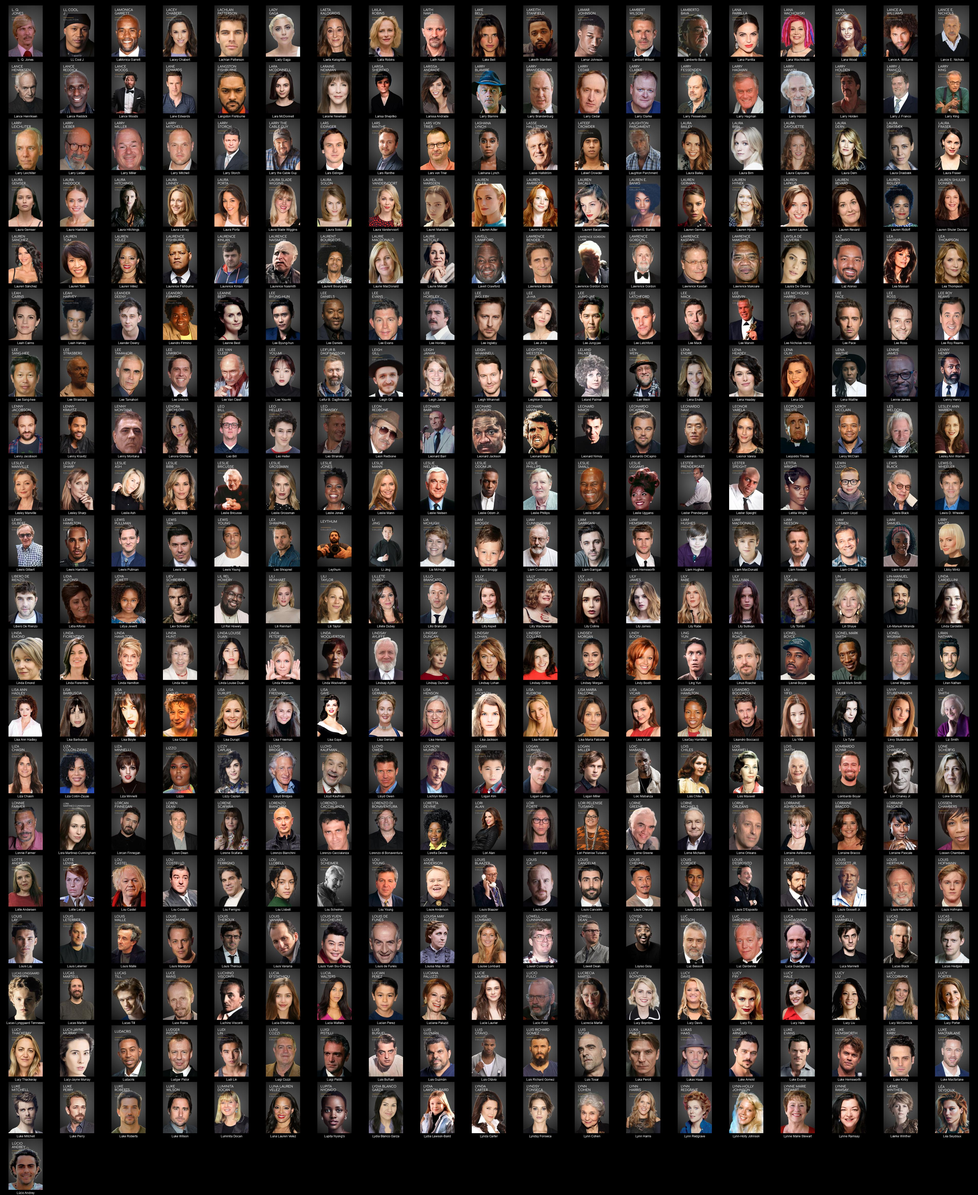
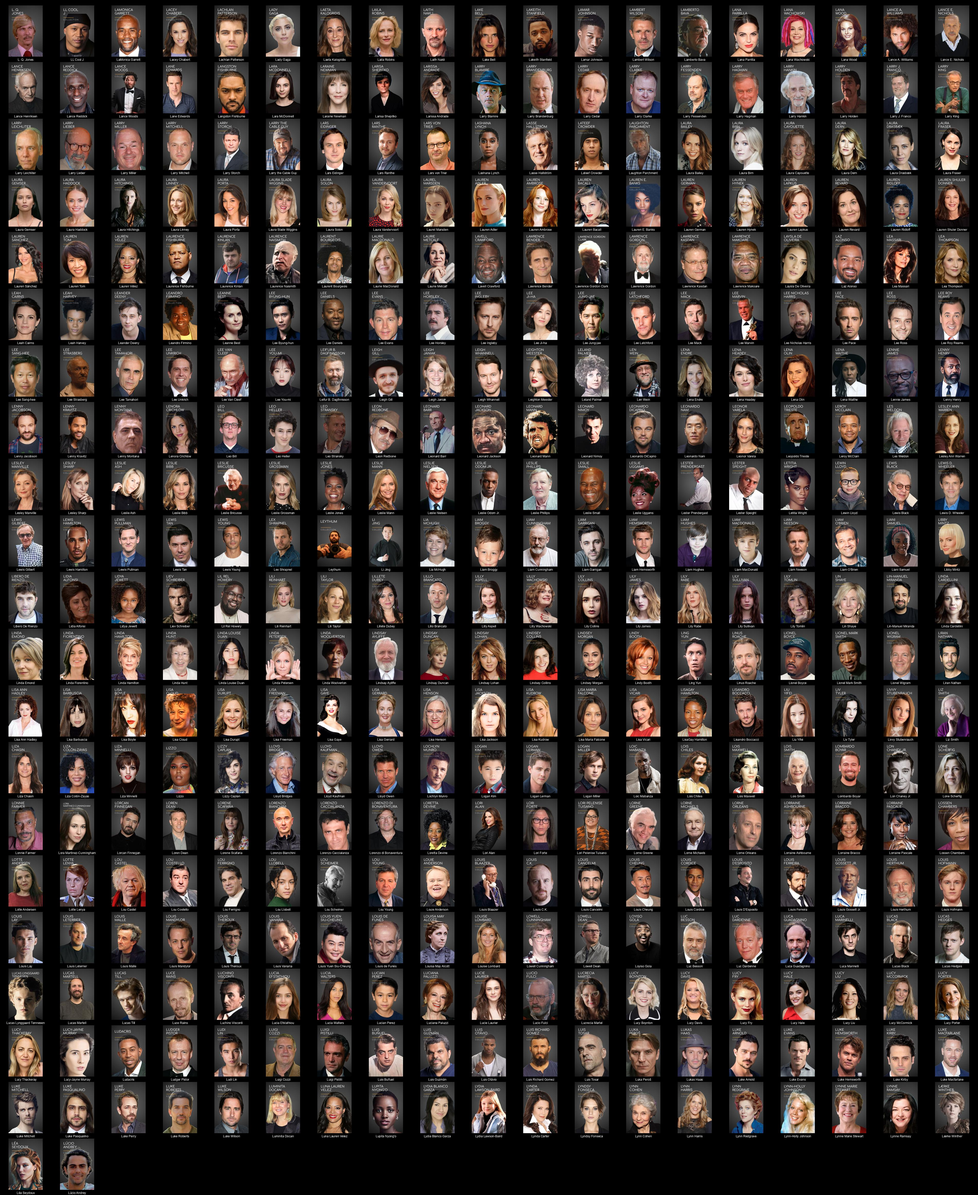
Readme Update

Changed region(s): [[0.0, 0.9062, 0.9937, 1.0]]

diff --git a/README.md b/README.md
@@ -1,4 +1,4 @@
-# Plex Meta Manager People - Rainier (rainier) (8699 Images)
+# Plex Meta Manager People - Rainier (rainier) (8702 Images)
 
 <details><summary><a href="'">' (1 Images)</a></summary>
 
@@ -2341,7 +2341,7 @@
 * [Débora Nascimento](https://raw.githubusercontent.com/meisnate12/Plex-Meta-Manager-People-rainier/master/D/Images/D%C3%A9bora%20Nascimento.jpg)
 * [Díana Bermudez](https://raw.githubusercontent.com/meisnate12/Plex-Meta-Manager-People-rainier/master/D/Images/D%C3%ADana%20Bermudez.jpg)
 </details>
-<details><summary><a href="E">E (320 Images)</a></summary>
+<details><summary><a href="E">E (321 Images)</a></summary>
 
 * [E.G. Marshall](https://raw.githubusercontent.com/meisnate12/Plex-Meta-Manager-People-rainier/master/E/Images/E.G.%20Marshall.jpg)
 * [E.J. Bonilla](https://raw.githubusercontent.com/meisnate12/Plex-Meta-Manager-People-rainier/master/E/Images/E.J.%20Bonilla.jpg)
@@ -2479,6 +2479,7 @@
 * [Elliott Gould](https://raw.githubusercontent.com/meisnate12/Plex-Meta-Manager-People-rainier/master/E/Images/Elliott%20Gould.jpg)
 * [Ellory Elkayem](https://raw.githubusercontent.com/meisnate12/Plex-Meta-Manager-People-rainier/master/E/Images/Ellory%20Elkayem.jpg)
 * [Elmer Bernstein](https://raw.githubusercontent.com/meisnate12/Plex-Meta-Manager-People-rainier/master/E/Images/Elmer%20Bernstein.jpg)
+* [Elodie Yung](https://raw.githubusercontent.com/meisnate12/Plex-Meta-Manager-People-rainier/master/E/Images/Elodie%20Yung.jpg)
 * [Eloise Mumford](https://raw.githubusercontent.com/meisnate12/Plex-Meta-Manager-People-rainier/master/E/Images/Eloise%20Mumford.jpg)
 * [Elsa Raven](https://raw.githubusercontent.com/meisnate12/Plex-Meta-Manager-People-rainier/master/E/Images/Elsa%20Raven.jpg)
 * [Elsie Fisher](https://raw.githubusercontent.com/meisnate12/Plex-Meta-Manager-People-rainier/master/E/Images/Elsie%20Fisher.jpg)
@@ -4522,7 +4523,7 @@
 * [Jürgen Prochnow](https://raw.githubusercontent.com/meisnate12/Plex-Meta-Manager-People-rainier/master/J/Images/J%C3%BCrgen%20Prochnow.jpg)
 * [Jūzō Itami](https://raw.githubusercontent.com/meisnate12/Plex-Meta-Manager-People-rainier/master/J/Images/J%C5%ABz%C5%8D%20Itami.jpg)
 </details>
-<details><summary><a href="K">K (389 Images)</a></summary>
+<details><summary><a href="K">K (390 Images)</a></summary>
 
 * [K Raghavendra Rao](https://raw.githubusercontent.com/meisnate12/Plex-Meta-Manager-People-rainier/master/K/Images/K%20Raghavendra%20Rao.jpg)
 * [K.J. Apa](https://raw.githubusercontent.com/meisnate12/Plex-Meta-Manager-People-rainier/master/K/Images/K.J.%20Apa.jpg)
@@ -4649,6 +4650,7 @@
 * [Katt Williams](https://raw.githubusercontent.com/meisnate12/Plex-Meta-Manager-People-rainier/master/K/Images/Katt%20Williams.jpg)
 * [Katy Breier](https://raw.githubusercontent.com/meisnate12/Plex-Meta-Manager-People-rainier/master/K/Images/Katy%20Breier.jpg)
 * [Katy O'Brian](https://raw.githubusercontent.com/meisnate12/Plex-Meta-Manager-People-rainier/master/K/Images/Katy%20O%27Brian.jpg)
+* [Katy Wix](https://raw.githubusercontent.com/meisnate12/Plex-Meta-Manager-People-rainier/master/K/Images/Katy%20Wix.jpg)
 * [Kay Kay Menon](https://raw.githubusercontent.com/meisnate12/Plex-Meta-Manager-People-rainier/master/K/Images/Kay%20Kay%20Menon.jpg)
 * [Kaya Scodelario](https://raw.githubusercontent.com/meisnate12/Plex-Meta-Manager-People-rainier/master/K/Images/Kaya%20Scodelario.jpg)
 * [Kayla Adams](https://raw.githubusercontent.com/meisnate12/Plex-Meta-Manager-People-rainier/master/K/Images/Kayla%20Adams.jpg)
@@ -4914,7 +4916,7 @@
 * [Kym Miller](https://raw.githubusercontent.com/meisnate12/Plex-Meta-Manager-People-rainier/master/K/Images/Kym%20Miller.jpg)
 * [Kyra Sedgwick](https://raw.githubusercontent.com/meisnate12/Plex-Meta-Manager-People-rainier/master/K/Images/Kyra%20Sedgwick.jpg)
 </details>
-<details><summary><a href="L">L (381 Images)</a></summary>
+<details><summary><a href="L">L (382 Images)</a></summary>
 
 * [L. Q. Jones](https://raw.githubusercontent.com/meisnate12/Plex-Meta-Manager-People-rainier/master/L/Images/L.%20Q.%20Jones.jpg)
 * [LL Cool J](https://raw.githubusercontent.com/meisnate12/Plex-Meta-Manager-People-rainier/master/L/Images/LL%20Cool%20J.jpg)
@@ -5278,6 +5280,7 @@
 * [Luke Kirby](https://raw.githubusercontent.com/meisnate12/Plex-Meta-Manager-People-rainier/master/L/Images/Luke%20Kirby.jpg)
 * [Luke Macfarlane](https://raw.githubusercontent.com/meisnate12/Plex-Meta-Manager-People-rainier/master/L/Images/Luke%20Macfarlane.jpg)
 * [Luke Mitchell](https://raw.githubusercontent.com/meisnate12/Plex-Meta-Manager-People-rainier/master/L/Images/Luke%20Mitchell.jpg)
+* [Luke Pasqualino](https://raw.githubusercontent.com/meisnate12/Plex-Meta-Manager-People-rainier/master/L/Images/Luke%20Pasqualino.jpg)
 * [Luke Perry](https://raw.githubusercontent.com/meisnate12/Plex-Meta-Manager-People-rainier/master/L/Images/Luke%20Perry.jpg)
 * [Luke Roberts](https://raw.githubusercontent.com/meisnate12/Plex-Meta-Manager-People-rainier/master/L/Images/Luke%20Roberts.jpg)
 * [Luke Wilson](https://raw.githubusercontent.com/meisnate12/Plex-Meta-Manager-People-rainier/master/L/Images/Luke%20Wilson.jpg)

diff --git a/K/README.md b/K/README.md
@@ -1,4 +1,4 @@
-# Plex Meta Manager People - Rainier (rainier) - K (389 Images)
+# Plex Meta Manager People - Rainier (rainier) - K (390 Images)
 ![Grid](grid.jpg)
 
 * [K Raghavendra Rao](https://raw.githubusercontent.com/meisnate12/Plex-Meta-Manager-People-rainier/master/K/Images/K%20Raghavendra%20Rao.jpg)
@@ -126,6 +126,7 @@
 * [Katt Williams](https://raw.githubusercontent.com/meisnate12/Plex-Meta-Manager-People-rainier/master/K/Images/Katt%20Williams.jpg)
 * [Katy Breier](https://raw.githubusercontent.com/meisnate12/Plex-Meta-Manager-People-rainier/master/K/Images/Katy%20Breier.jpg)
 * [Katy O'Brian](https://raw.githubusercontent.com/meisnate12/Plex-Meta-Manager-People-rainier/master/K/Images/Katy%20O%27Brian.jpg)
+* [Katy Wix](https://raw.githubusercontent.com/meisnate12/Plex-Meta-Manager-People-rainier/master/K/Images/Katy%20Wix.jpg)
 * [Kay Kay Menon](https://raw.githubusercontent.com/meisnate12/Plex-Meta-Manager-People-rainier/master/K/Images/Kay%20Kay%20Menon.jpg)
 * [Kaya Scodelario](https://raw.githubusercontent.com/meisnate12/Plex-Meta-Manager-People-rainier/master/K/Images/Kaya%20Scodelario.jpg)
 * [Kayla Adams](https://raw.githubusercontent.com/meisnate12/Plex-Meta-Manager-People-rainier/master/K/Images/Kayla%20Adams.jpg)

diff --git a/E/README.md b/E/README.md
@@ -1,4 +1,4 @@
-# Plex Meta Manager People - Rainier (rainier) - E (320 Images)
+# Plex Meta Manager People - Rainier (rainier) - E (321 Images)
 ![Grid](grid.jpg)
 
 * [E.G. Marshall](https://raw.githubusercontent.com/meisnate12/Plex-Meta-Manager-People-rainier/master/E/Images/E.G.%20Marshall.jpg)
@@ -137,6 +137,7 @@
 * [Elliott Gould](https://raw.githubusercontent.com/meisnate12/Plex-Meta-Manager-People-rainier/master/E/Images/Elliott%20Gould.jpg)
 * [Ellory Elkayem](https://raw.githubusercontent.com/meisnate12/Plex-Meta-Manager-People-rainier/master/E/Images/Ellory%20Elkayem.jpg)
 * [Elmer Bernstein](https://raw.githubusercontent.com/meisnate12/Plex-Meta-Manager-People-rainier/master/E/Images/Elmer%20Bernstein.jpg)
+* [Elodie Yung](https://raw.githubusercontent.com/meisnate12/Plex-Meta-Manager-People-rainier/master/E/Images/Elodie%20Yung.jpg)
 * [Eloise Mumford](https://raw.githubusercontent.com/meisnate12/Plex-Meta-Manager-People-rainier/master/E/Images/Eloise%20Mumford.jpg)
 * [Elsa Raven](https://raw.githubusercontent.com/meisnate12/Plex-Meta-Manager-People-rainier/master/E/Images/Elsa%20Raven.jpg)
 * [Elsie Fisher](https://raw.githubusercontent.com/meisnate12/Plex-Meta-Manager-People-rainier/master/E/Images/Elsie%20Fisher.jpg)

diff --git a/L/README.md b/L/README.md
@@ -1,4 +1,4 @@
-# Plex Meta Manager People - Rainier (rainier) - L (381 Images)
+# Plex Meta Manager People - Rainier (rainier) - L (382 Images)
 ![Grid](grid.jpg)
 
 * [L. Q. Jones](https://raw.githubusercontent.com/meisnate12/Plex-Meta-Manager-People-rainier/master/L/Images/L.%20Q.%20Jones.jpg)
@@ -363,6 +363,7 @@
 * [Luke Kirby](https://raw.githubusercontent.com/meisnate12/Plex-Meta-Manager-People-rainier/master/L/Images/Luke%20Kirby.jpg)
 * [Luke Macfarlane](https://raw.githubusercontent.com/meisnate12/Plex-Meta-Manager-People-rainier/master/L/Images/Luke%20Macfarlane.jpg)
 * [Luke Mitchell](https://raw.githubusercontent.com/meisnate12/Plex-Meta-Manager-People-rainier/master/L/Images/Luke%20Mitchell.jpg)
+* [Luke Pasqualino](https://raw.githubusercontent.com/meisnate12/Plex-Meta-Manager-People-rainier/master/L/Images/Luke%20Pasqualino.jpg)
 * [Luke Perry](https://raw.githubusercontent.com/meisnate12/Plex-Meta-Manager-People-rainier/master/L/Images/Luke%20Perry.jpg)
 * [Luke Roberts](https://raw.githubusercontent.com/meisnate12/Plex-Meta-Manager-People-rainier/master/L/Images/Luke%20Roberts.jpg)
 * [Luke Wilson](https://raw.githubusercontent.com/meisnate12/Plex-Meta-Manager-People-rainier/master/L/Images/Luke%20Wilson.jpg)
